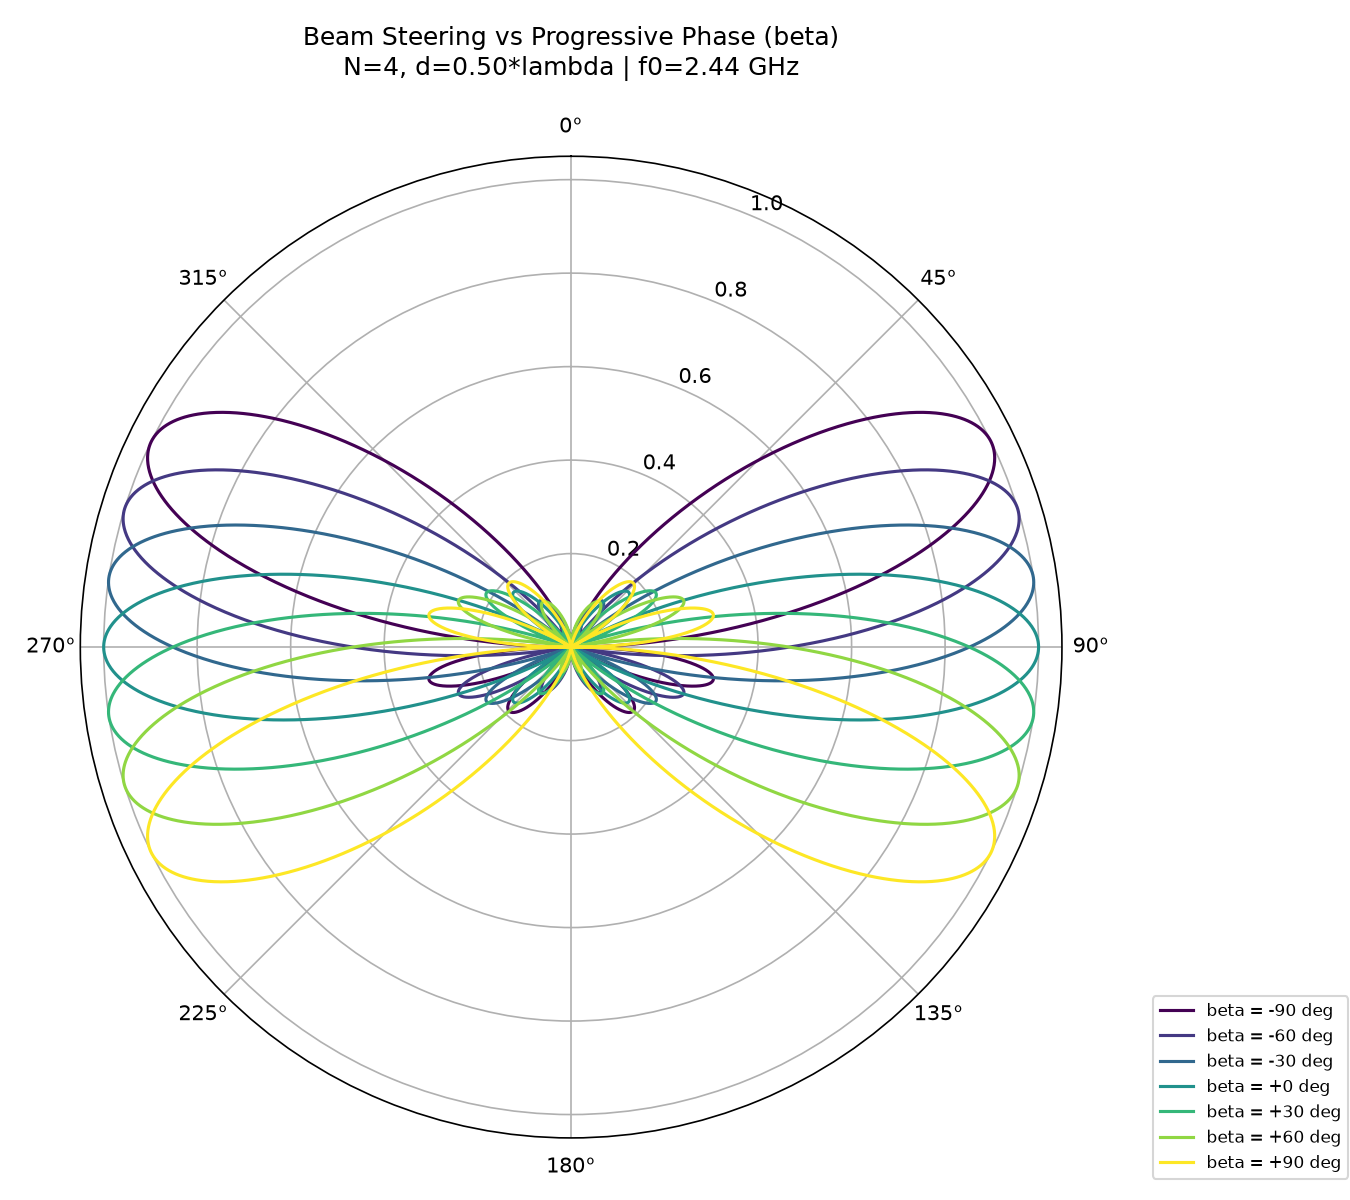
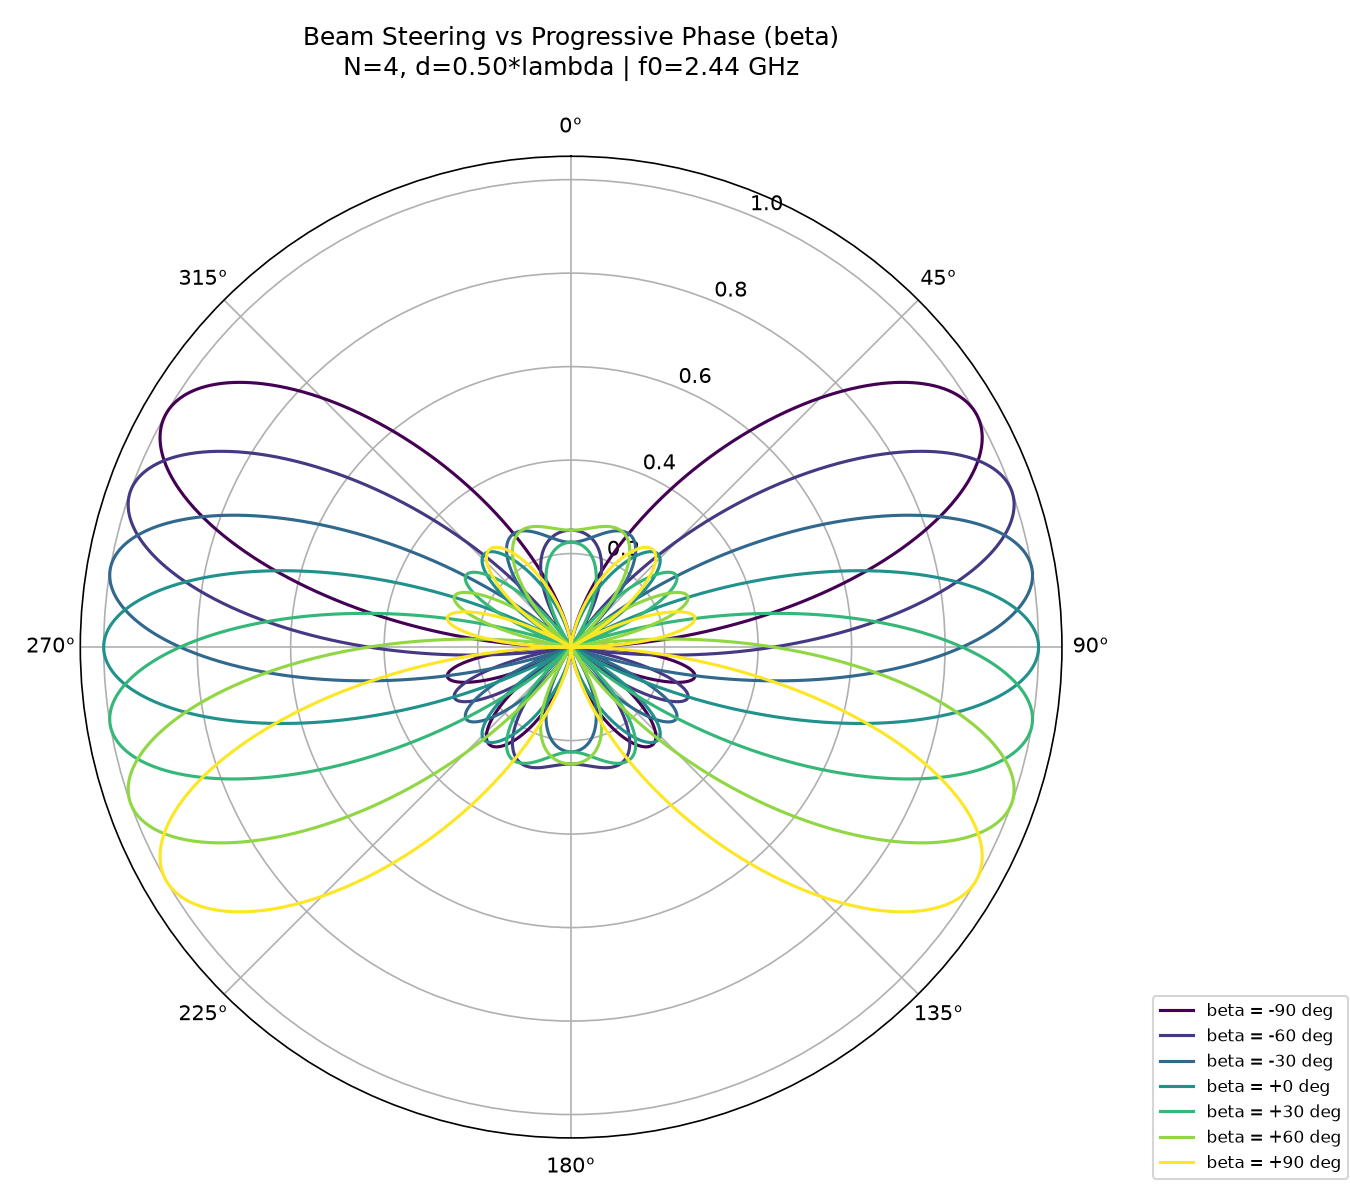
Use side-by-side layout for the linear array pattern

Changed region(s): [[0.0622, 0.3083, 0.7778, 0.7708]]

diff --git a/Electromagnetic-Theory-Member-1-main/antenna_math_engine.py b/Electromagnetic-Theory-Member-1-main/antenna_math_engine.py
@@ -96,27 +96,40 @@ def get_taper_weights(N, taper='uniform', sll_db=30.0):
 
 
 def array_factor(theta, N=4, d=None, beta=0.0, taper='uniform', sll_db=30.0):
-    # array along z (collinear), theta from the array axis
+    # theta = angle from the array axis
     if d is None:
         d = LAMBDA / 2
-    psi = np.atleast_1d(K0 * d * np.cos(np.asarray(theta, dtype=float)) + beta)
+    psi = K0 * d * np.cos(np.asarray(theta, dtype=float)) + beta
     w = get_taper_weights(N, taper, sll_db)
-    AF = np.abs(np.sum(w[:, None] * np.exp(1j * np.outer(np.arange(N), psi)), axis=0))
-    AF = AF / np.sum(np.abs(w))
+    AF = np.abs(np.sum(w[:, None] * np.exp(1j * np.outer(np.arange(N), psi.ravel())), axis=0))
+    AF = AF.reshape(psi.shape) / np.sum(np.abs(w))
     if np.isscalar(theta):
-        return float(AF[0])
+        return float(AF)
     return AF
 
 
+def array_pattern_3d(theta, phi, N=4, d=None, beta=0.0, taper='uniform', sll_db=30.0):
+    # side-by-side array: z-directed dipoles spaced along x (same layout as the Yagi)
+    cos_gamma = np.sin(theta) * np.cos(phi)
+    return element_factor(theta) * array_factor(np.arccos(np.clip(cos_gamma, -1, 1)),
+                                                N, d, beta, taper, sll_db)
+
+
 def total_pattern(theta, N=4, d=None, beta=0.0, taper='uniform', sll_db=30.0):
-    return element_factor(theta) * array_factor(theta, N, d, beta, taper, sll_db)
+    # cut through the steering plane (theta = 90 deg), angle measured from the array axis.
+    # the dipole pattern is 1 in this plane
+    theta = np.asarray(theta, dtype=float)
+    return array_pattern_3d(np.full_like(theta, np.pi / 2), theta, N, d, beta, taper, sll_db)
 
 
 def compute_directivity(N=4, d=None, beta=0.0, taper='uniform', sll_db=30.0):
-    f = lambda th: total_pattern(th, N, d, beta, taper, sll_db) ** 2 * np.sin(th)
-    P = 2 * np.pi * integrate.quad(f, 0, np.pi, limit=200)[0]
-    th = np.linspace(0, np.pi, 20000)
-    U_max = np.max(total_pattern(th, N, d, beta, taper, sll_db) ** 2)
+    th = np.linspace(0, np.pi, 181)
+    ph = np.linspace(0, 2 * np.pi, 361)
+    TH, PH = np.meshgrid(th, ph, indexing='ij')
+    U = array_pattern_3d(TH, PH, N, d, beta, taper, sll_db) ** 2
+    P = integrate.simpson(integrate.simpson(U * np.sin(TH), x=th, axis=0), x=ph)
+    # the peak is always in the theta = 90 plane
+    U_max = np.max(total_pattern(np.linspace(0, np.pi, 20000), N, d, beta, taper, sll_db) ** 2)
     if P <= 1e-15:
         return 0.0, 1.0
     D = 4 * np.pi * U_max / P
@@ -503,16 +516,19 @@ def plot_3d_spherical_pattern(N=4, d=None, beta=0.0, taper='uniform',
     th = np.linspace(0, np.pi, 181)
     ph = np.linspace(0, 2 * np.pi, 361)
     TH, PH = np.meshgrid(th, ph)
-    E = total_pattern(th, N, d, beta, taper)
-    R = np.tile(E / E.max(), (ph.size, 1))
+    R = array_pattern_3d(TH, PH, N, d, beta, taper)
+    R = R / R.max()
     fig = plt.figure(figsize=(10, 8))
     ax = fig.add_subplot(111, projection='3d')
     ax.plot_surface(R * np.sin(TH) * np.cos(PH), R * np.sin(TH) * np.sin(PH), R * np.cos(TH),
                     facecolors=plt.cm.jet(R ** 2), linewidth=0, antialiased=True,
                     alpha=0.85, rstride=2, cstride=2)
-    ax.set_xlabel('X')
+    ax.set_xlabel('X (array axis)')
     ax.set_ylabel('Y')
-    ax.set_zlabel('Z (Array Axis)')
+    ax.set_zlabel('Z (dipole axis)')
+    ax.set_box_aspect((1, 1, 1))
+    for lim in (ax.set_xlim, ax.set_ylim, ax.set_zlim):
+        lim(-1, 1)
     ax.set_title("3D Spherical Radiation Pattern\nN={}, d={:.2f}*lambda, beta={:.0f} deg, Taper: {}  |  f0=2.44 GHz"
                  .format(N, d / LAMBDA, np.degrees(beta), taper), fontsize=11, pad=12)
     sm = plt.cm.ScalarMappable(cmap='jet')
@@ -578,7 +594,7 @@ if __name__ == "__main__":
     print("=" * 60)
     print("R_rad of lambda/2 dipole (Poynting) : {:.2f} Ohm".format(dipole_radiated_power(L_DIPOLE)[1]))
 
-    print("\n-- {} element ULA, d = {:.2f} lambda --".format(N, d / LAMBDA))
+    print("\n-- {} element ULA (side by side), d = {:.2f} lambda --".format(N, d / LAMBDA))
     D0, _ = compute_directivity(N, d, beta)
     hpbw, peak = compute_hpbw(N, d, beta)
     Z = build_impedance_matrix(N, d)
